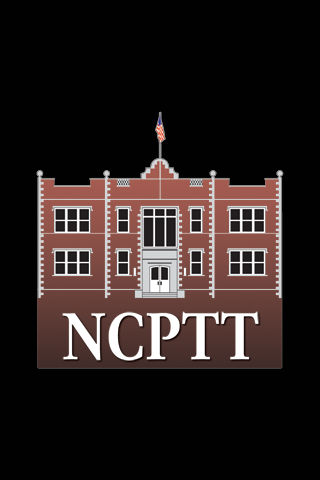
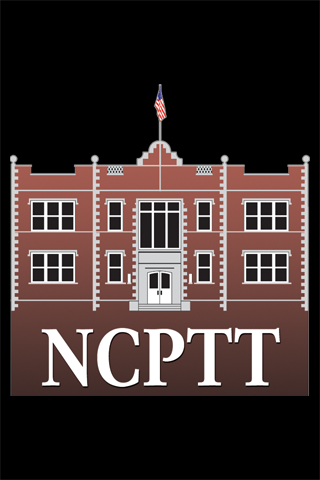
Launcher set to column 3 or 5 depending on orientation; added high-rez splash screen for iOS handhelds

diff --git a/Classes/LauncherViewController.m b/Classes/LauncherViewController.m
@@ -97,7 +97,7 @@
 		_launcherView.frame=self.view.bounds;
 		
 	} else	if((self.interfaceOrientation == UIDeviceOrientationPortrait) || (self.interfaceOrientation == UIDeviceOrientationPortraitUpsideDown)){
-		_launcherView.columnCount = 4;
+		_launcherView.columnCount = 3;
 		_launcherView.frame=self.view.bounds;
 	}
  
